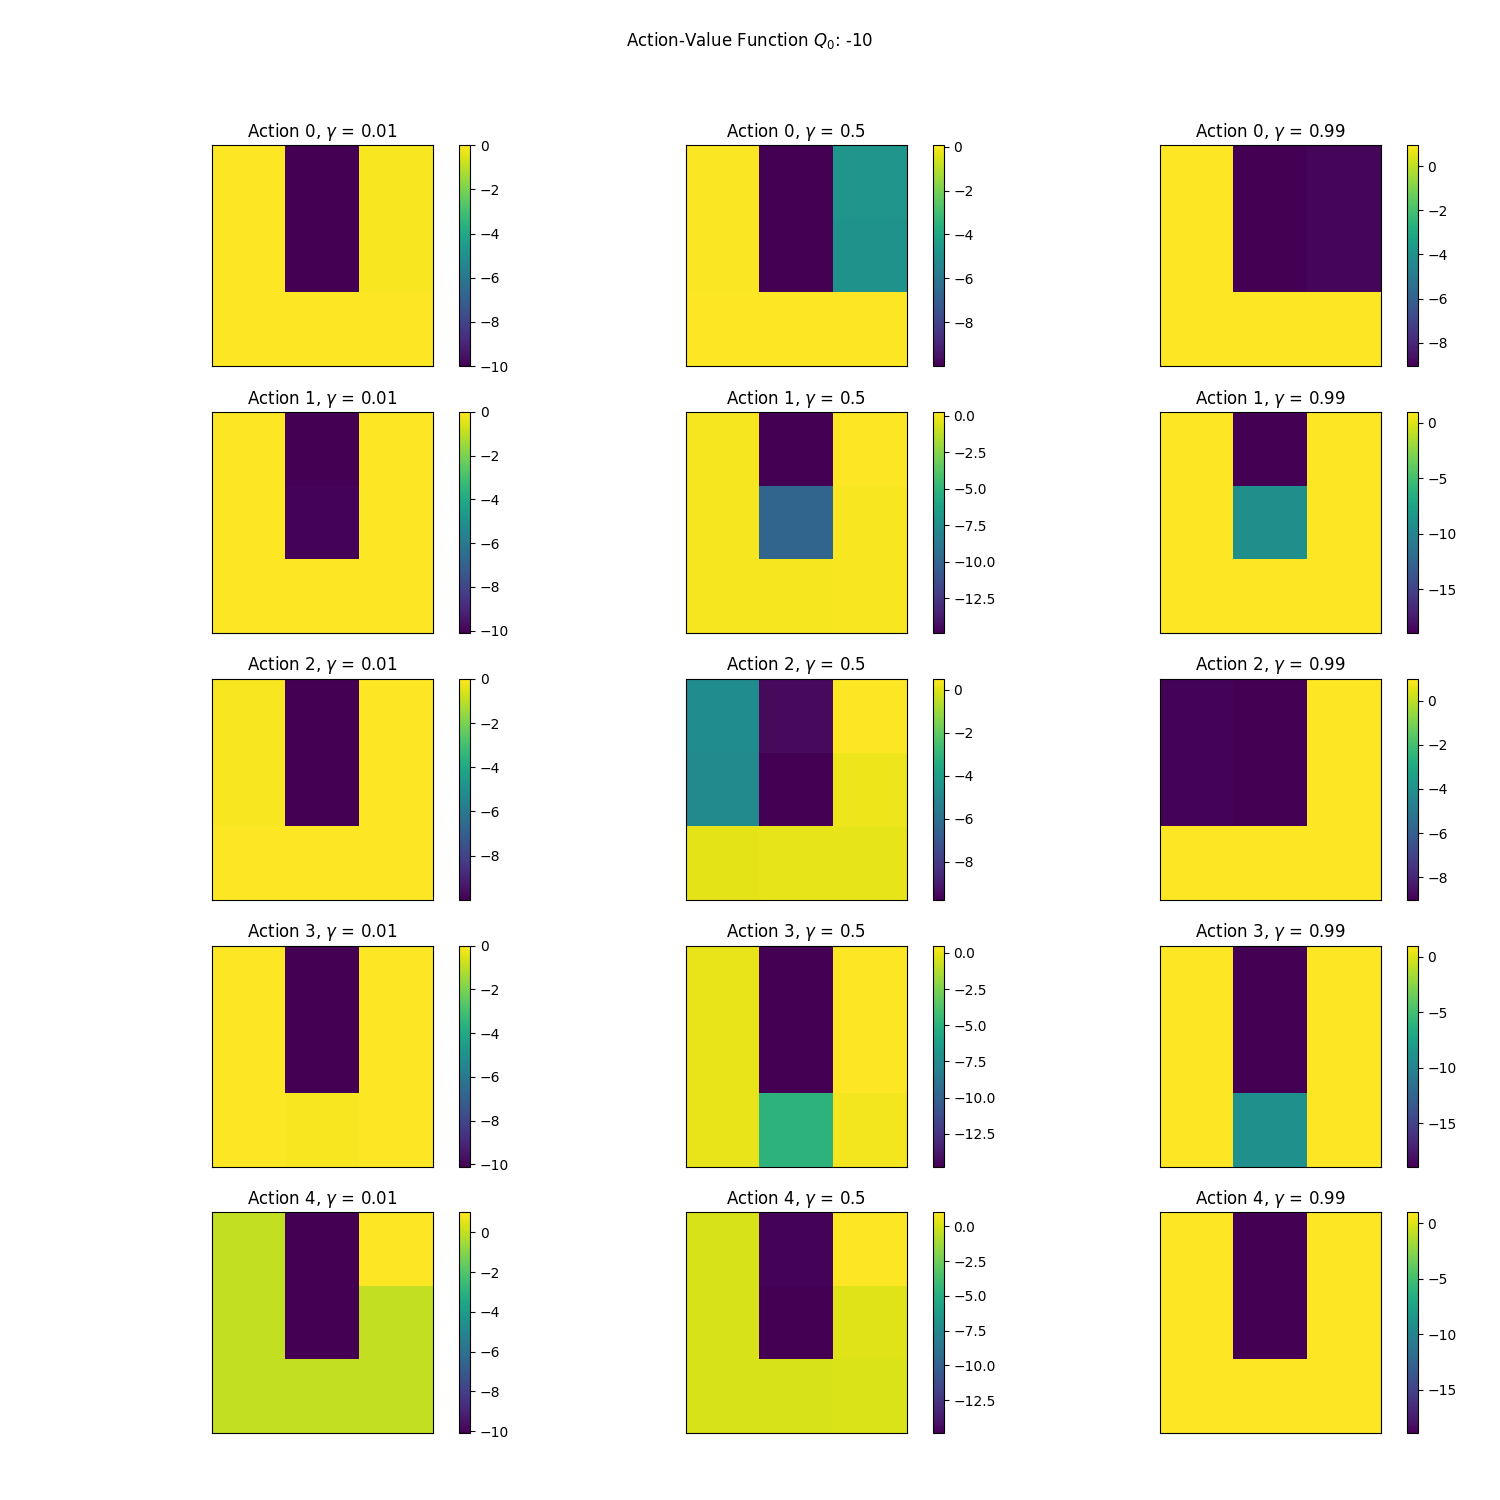
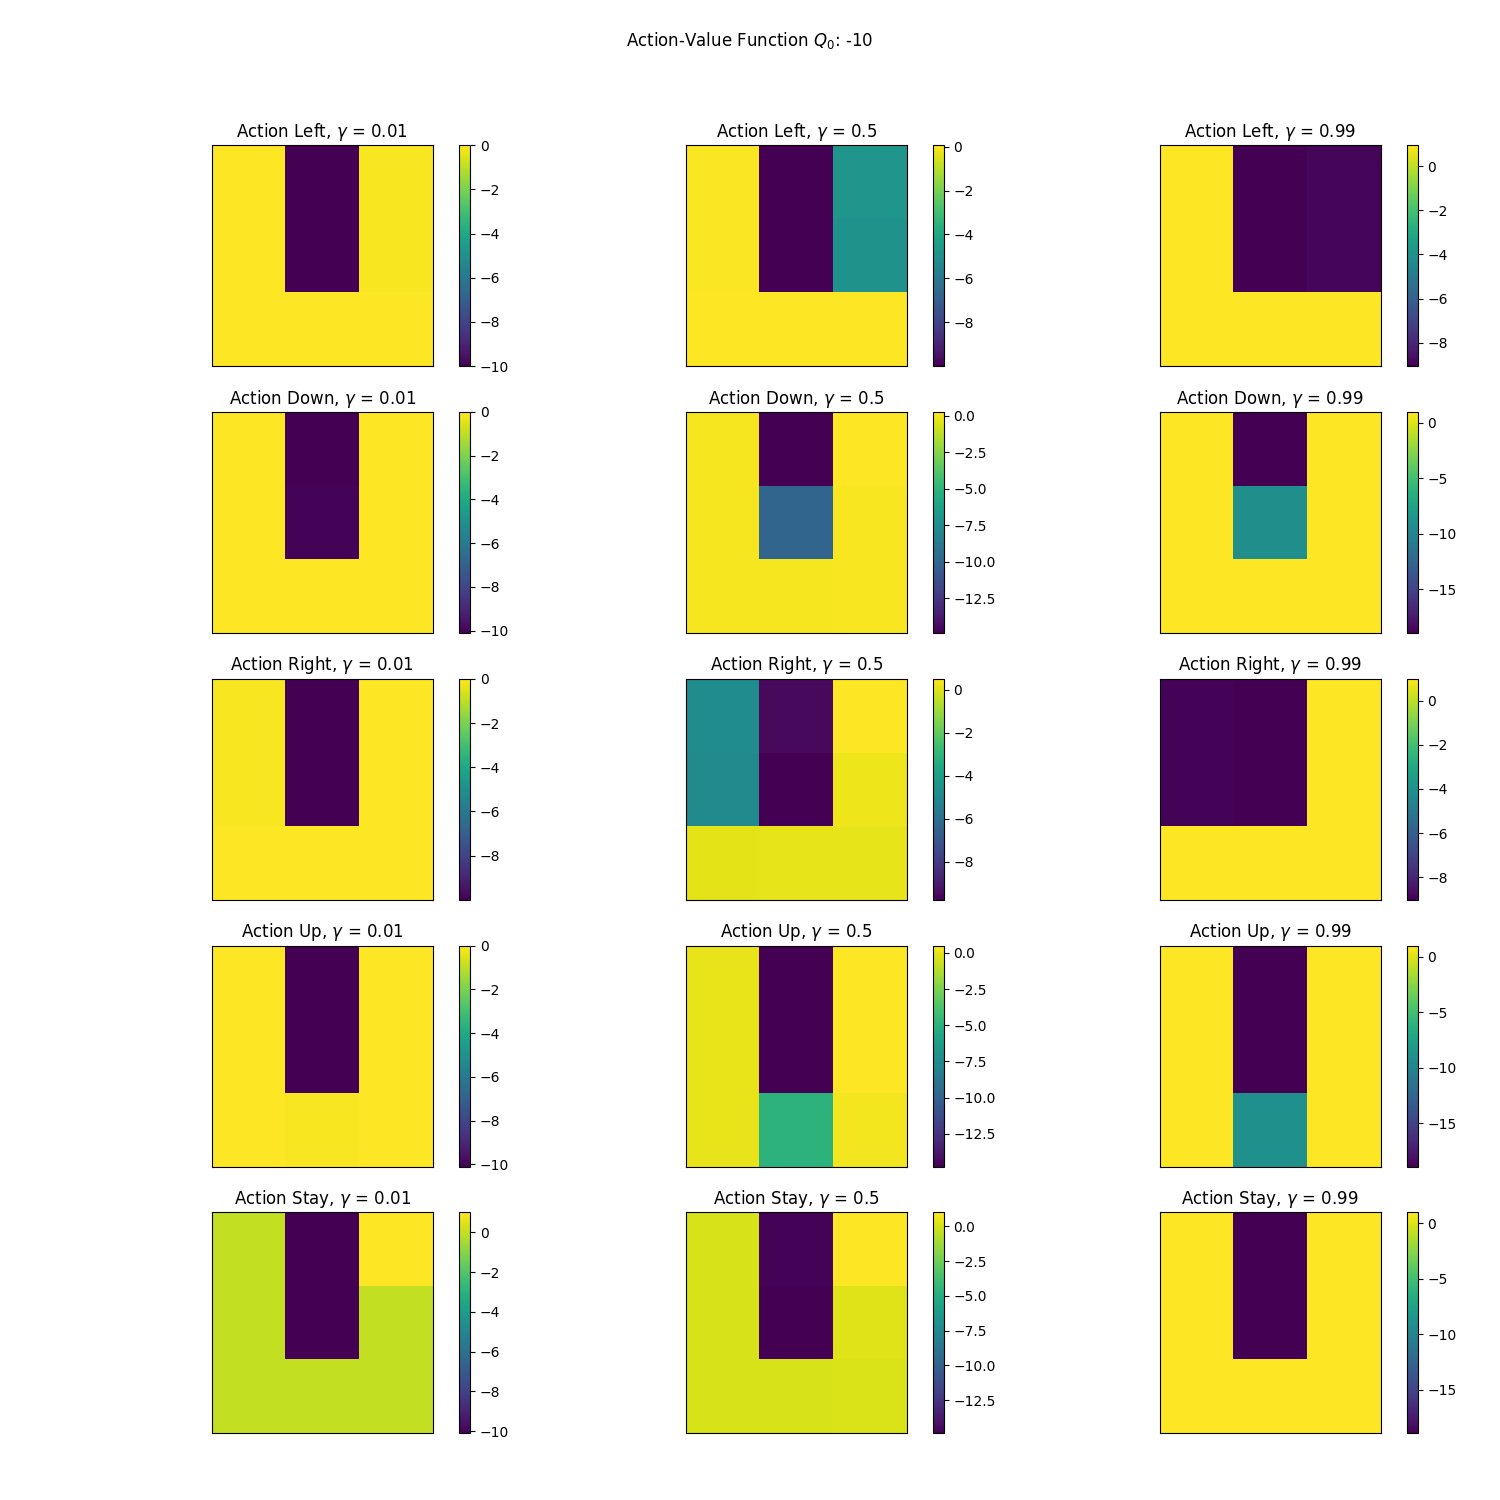
added actions in header

diff --git a/gym_gridworlds/DP.py b/gym_gridworlds/DP.py
@@ -51,9 +51,10 @@ def plot_v_function(V, axs, gamma, i, grid_size):
     return im
 
 def plot_q_function(Q, axs, a, gamma, i, grid_size):
+    action_labels = ['Left', 'Down', 'Right', 'Up', 'Stay']
     Q_grid = Q[:, a].reshape((grid_size, grid_size))
     im = axs.imshow(Q_grid, cmap='viridis', interpolation='none')
-    axs.set_title(f'Action {a}, $\gamma$ = {gamma}')
+    axs.set_title(f'Action {action_labels[a]}, $\gamma$ = {gamma}')
     axs.set_xticks([])
     axs.set_yticks([])
     return im
